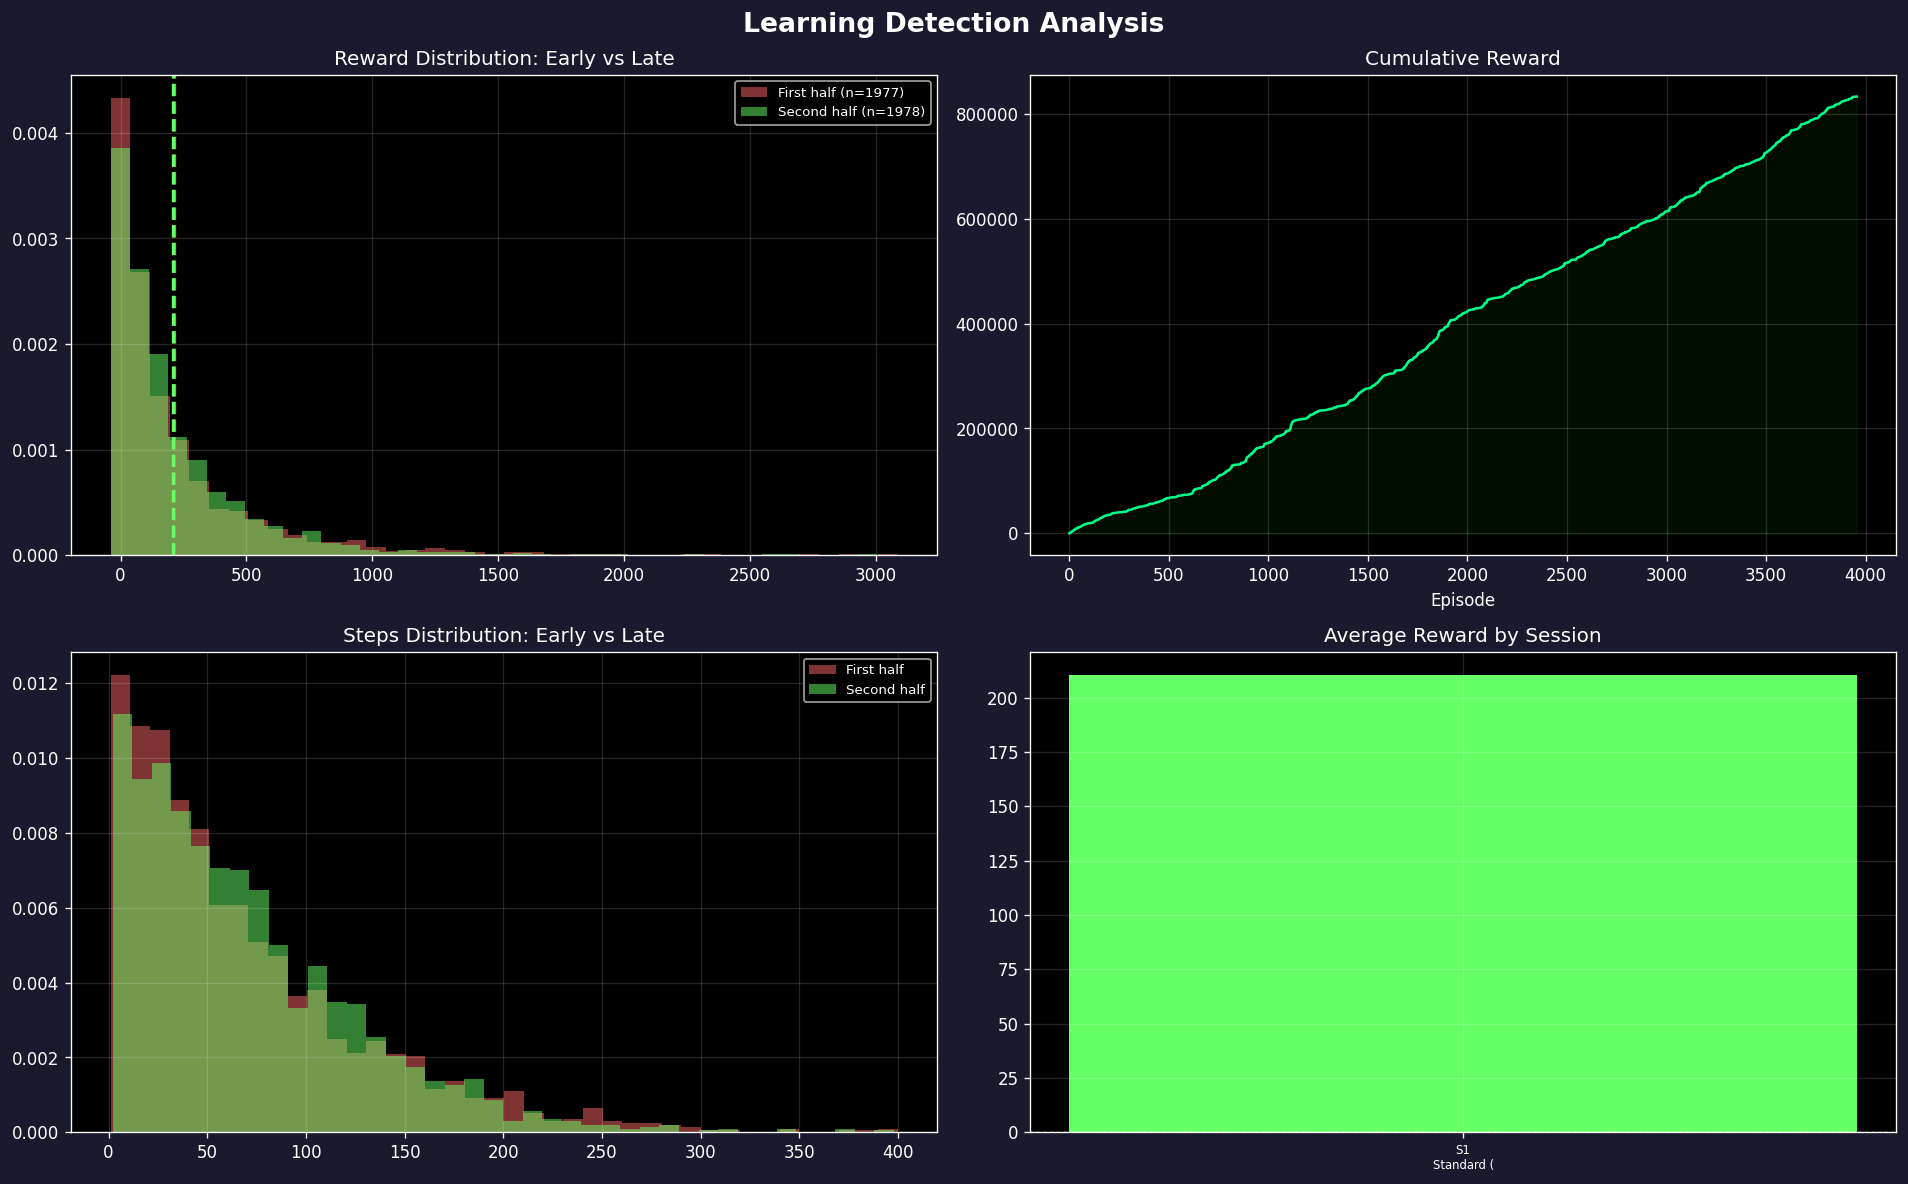
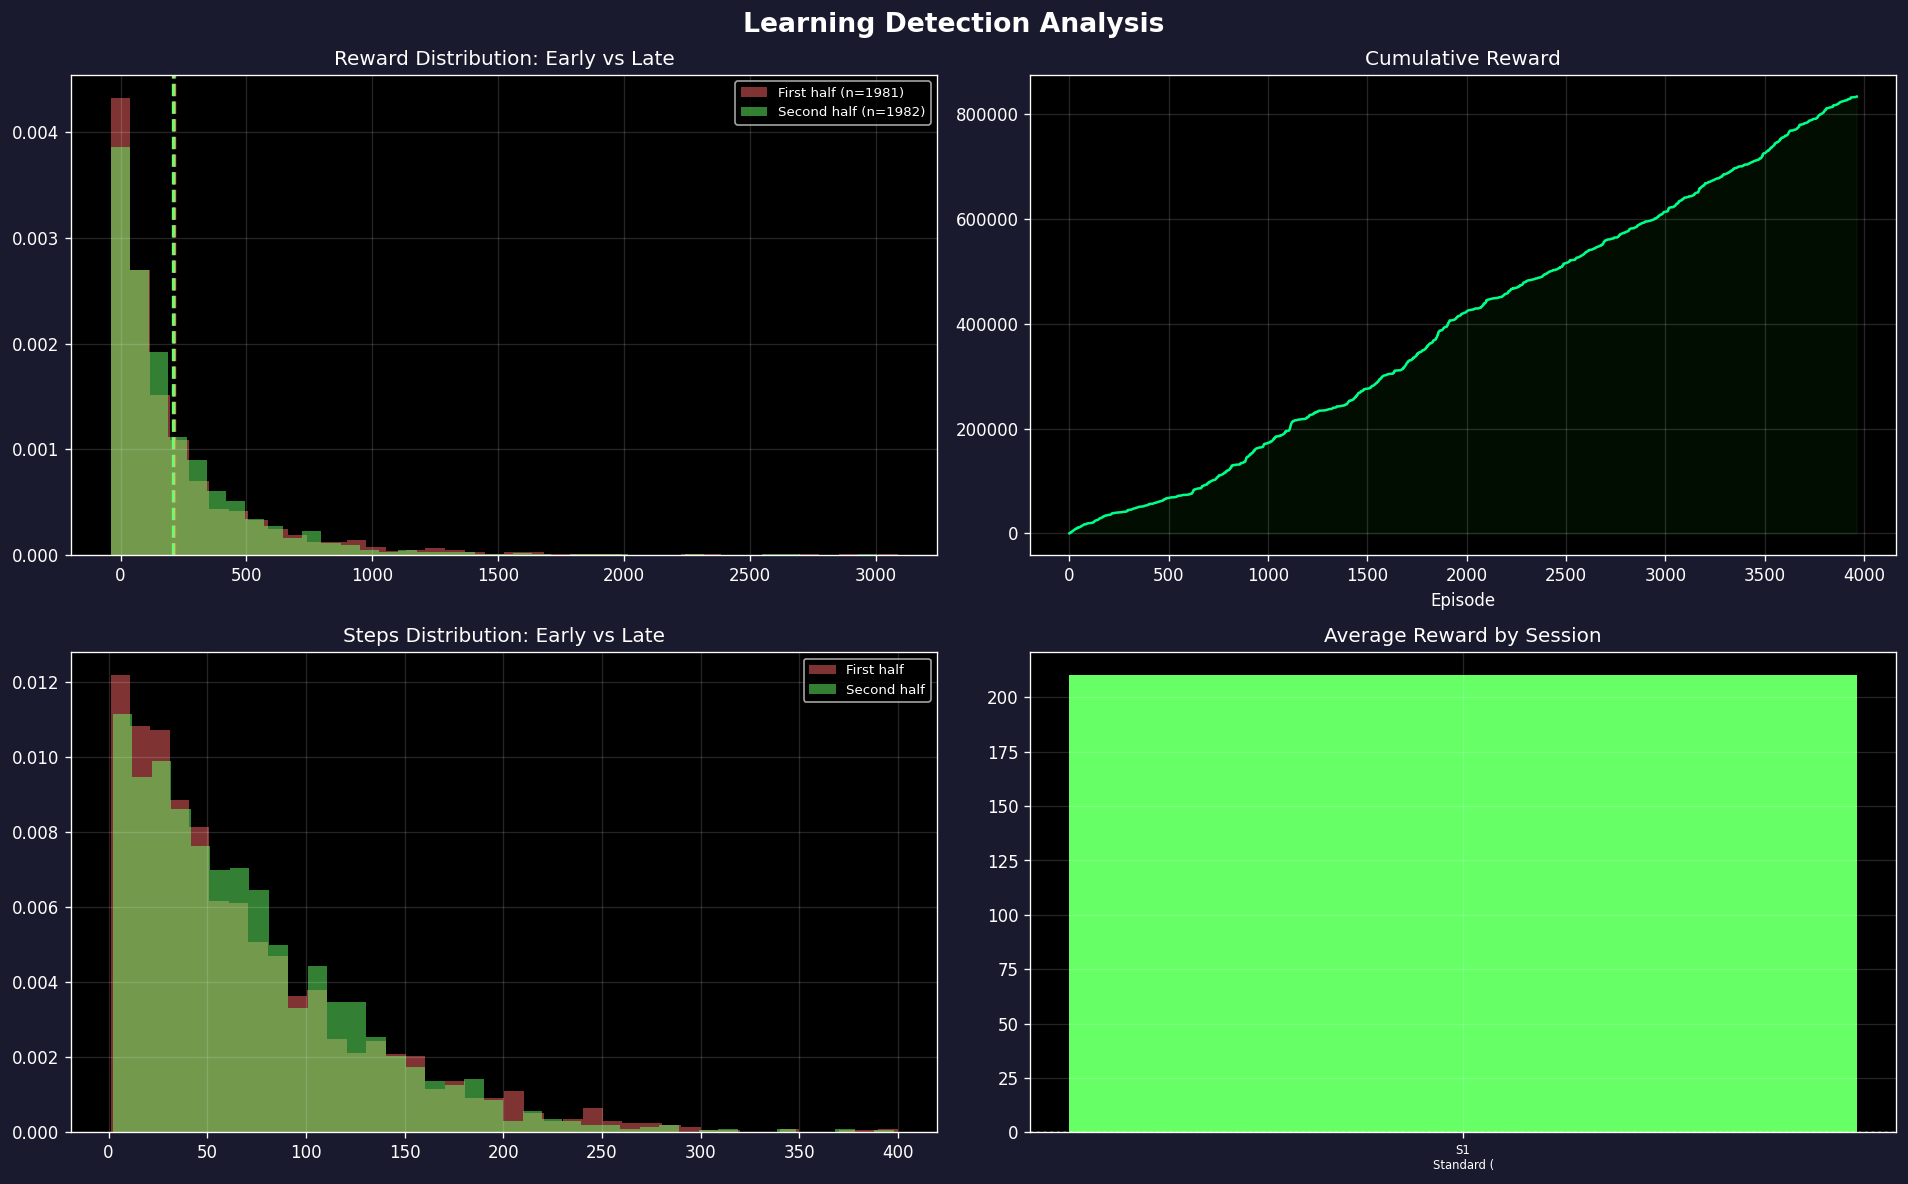
stats

diff --git a/gen2/progress_report.md b/gen2/progress_report.md
@@ -1,7 +1,7 @@
 # Slither.io Bot - Training Progress Report
 
-**Generated:** 2026-02-12 15:02:09  
-**Total Episodes:** 3955  
+**Generated:** 2026-02-12 15:03:14  
+**Total Episodes:** 3963  
 **Training Sessions:** 1
 
 ## Verdict: NOT LEARNING (Confidence: 45%)
@@ -15,10 +15,10 @@
 
 | Metric | Mean | Std | Min | Max | P50 | P95 |
 |--------|------|-----|-----|-----|-----|-----|
-| Reward | 210.56 | 307.87 | -40.00 | 3087.36 | 101.51 | 796.23 |
-| Steps | 69.13 | 59.39 | 1.00 | 400.00 | 53.00 | 186.00 |
-| Food | 30.13 | 12.97 | 0.00 | 106.00 | 27.00 | 55.00 |
-| Loss | 2.75 | 2.46 | 0.01 | 18.59 | 2.11 | 7.65 |
+| Reward | 210.38 | 307.63 | -40.00 | 3087.36 | 101.51 | 795.43 |
+| Steps | 69.10 | 59.35 | 1.00 | 400.00 | 53.00 | 185.90 |
+| Food | 30.12 | 12.96 | 0.00 | 106.00 | 27.00 | 55.00 |
+| Loss | 2.76 | 2.46 | 0.01 | 18.59 | 2.11 | 7.66 |
 
 ## Goal Progress
 
@@ -31,7 +31,7 @@
 
 | # | Style | Episodes | Avg Reward | Avg Steps |
 |---|-------|----------|------------|----------|
-| 1 | Standard (Curriculum) | 1-3955 | 210.6 | 69 |
+| 1 | Standard (Curriculum) | 1-3963 | 210.4 | 69 |
 
 ## Recommendations
 
